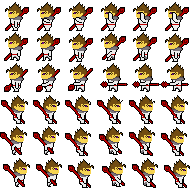
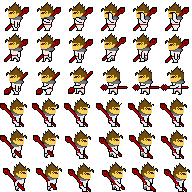
got them walking and attacking, but need to sync and need to have thme be damaged and loop

Changed region(s): [[0.0, 0.1562, 1.0, 1.0]]

diff --git a/main.js b/main.js
@@ -1,6 +1,10 @@
 var AM = new AssetManager();
 
-function Animation(spriteSheet, startX, startY, frameWidth, frameHeight, sheetWidth, frameDuration, frames, loop, scale) {
+function Animation(spriteSheet, startX, startY,
+                   frameWidth, frameHeight,
+                   sheetWidth,
+                   frameDuration, frames,
+                   loop, scale, doneXY = null) {
     this.spriteSheet = spriteSheet;
     this.startX = startX;
     this.startY = startY;
@@ -8,21 +12,39 @@ function Animation(spriteSheet, startX, startY, frameWidth, frameHeight, sheetWi
     this.frameDuration = frameDuration;
     this.frameHeight = frameHeight;
     this.sheetWidth = sheetWidth;
-    this.frames = frames;
     this.totalTime = frameDuration * frames;
     this.elapsedTime = 0;
     this.loop = loop;
+    if (!loop) {
+        this.doneXY = {x: doneXY.x, y: doneXY.y};
+    }
     this.scale = scale;
 }
 
 Animation.prototype.drawFrame = function (tick, ctx, x, y) {
     this.elapsedTime += tick;
-    if (this.isDone()) {
-        if (this.loop) this.elapsedTime = 0;
-    }
-    var frame = this.currentFrame();
+
     var xindex = 0;
     var yindex = 0;
+
+    if (this.isDone()) {
+        if (this.loop)  {
+            this.elapsedTime = 0;
+        } else {
+            xindex = this.doneXY.x;
+            yindex = this.doneXY.y;
+            ctx.drawImage(this.spriteSheet,
+                xindex * this.frameWidth, yindex * this.frameHeight,
+                this.frameWidth, this.frameHeight,
+                x, y,
+                this.frameWidth * this.scale,
+                this. frameHeight * this.scale);
+            return;
+        }
+    }
+
+    var frame = this.currentFrame();
+
     xindex = this.startX + (frame % this.sheetWidth);
     yindex = this.startY + Math.floor(frame / this.sheetWidth);
 
@@ -32,15 +54,15 @@ Animation.prototype.drawFrame = function (tick, ctx, x, y) {
                  x, y,
                  this.frameWidth * this.scale,
                  this.frameHeight * this.scale);
-}
+};
 
 Animation.prototype.currentFrame = function () {
     return Math.floor(this.elapsedTime / this.frameDuration);
-}
+};
 
 Animation.prototype.isDone = function () {
     return (this.elapsedTime >= this.totalTime);
-}
+};
 
 // no inheritance
 function Background(game, spritesheet) {
@@ -59,164 +81,46 @@ Background.prototype.draw = function () {
 Background.prototype.update = function () {
 };
 
-//Fighter LEFT
-function FighterLeft(game, sideToSide) {
+function Fighter(game, walk, attack, takeDmg, idle, direction, startPos) {
     this.speed = 100;
     this.game = game;
     this.ctx = game.ctx;
-    this.file = sideToSide;
-    this.animation = new Animation(sideToSide,
-        0,
-        5,
-        32,
-        32,
-        6,
-        0.10,
-        6,
-        true,
-        3);
-    Entity.call(this, game, 10, 350);
+
+    this.walk = walk;
+    this.attack = attack;
+    this.takeDmg = takeDmg;
+    this.idle = idle;
+    this.direction = direction;
+    this.startPos = startPos;
+    this.animation = this.walk;
+
+    Entity.call(this, game, startPos.x, startPos.y);
 }
-FighterLeft.prototype = new Entity();
-FighterLeft.prototype.constructor = FighterLeft;
-FighterLeft.prototype.update = function () {
-    this.x += this.game.clockTick * this.speed;
-    if (this.x > 300) {
-        this.x = 300;
-        this.speed = 0;
-        this.animation = new Animation(this.file,
-            0,
-            7, //or 7
-            32,
-            32,
-            6,
-            0.10,
-            6,
-            true,
-            3);
+Fighter.prototype = new Entity();
+Fighter.prototype.constructor = Fighter;
+Fighter.prototype.update = function () {
+    if (this.direction === "left") {
+        this.x += this.game.clockTick * this.speed;
+        if (this.x > 300) {
+            this.x = 300;
+            this.speed = 0;
+            this.animation = this.attack;
+        }
+    } else {
+        this.x -= this.game.clockTick * this.speed;
+        if (this.x < 400) {
+            this.x = 400;
+            this.speed = 0;
+            this.animation = this.attack;
+        }
     }
-    console.log(this.x + "," + this.y);
+
     Entity.prototype.update.call(this);
 };
-FighterLeft.prototype.draw = function () {
+Fighter.prototype.draw = function () {
     this.animation.drawFrame(this.game.clockTick, this.ctx, this.x, this.y);
     Entity.prototype.draw.call(this);
 };
-
-// //Fighter RIGHT
-// function FighterRight(game, sideToSide) {
-//     this.speed = 50;
-//     this.game = game;
-//     this.ctx = game.ctx;
-//     this.animation = new Animation(sideToSide,
-//         // 0,
-//         // 32,
-//         32,
-//         32,
-//         6,
-//         0.10,
-//         6,
-//         true,
-//         1);
-//     Entity.call(this, game, 800, 350);
-// }
-// FighterRight.prototype = new Entity();
-// FighterRight.prototype.constructor = FighterLeft;
-// FighterRight.prototype.update = function () {
-//     this.x -= this.game.clockTick * this.speed;
-//     if (this.x < 450) {
-//         this.x = 450;
-//         this.speed = 0;
-//     }
-//     Entity.prototype.update.call(this);
-// };
-// FighterRight.prototype.draw = function () {
-//     this.animation.drawFrame(this.game.clockTick, this.ctx, this.x, this.y);
-//     Entity.prototype.draw.call(this);
-// };
-
-// function BlackMage(game, sideToSide, dmgSheet) {
-//     this.IdleLeftAnimation = new Animation(sideToSide,
-//         0,
-//         0,
-//         32,
-//         32,
-//         6,
-//         0.10,
-//         6,
-//         true,
-//         1);
-//     this.WalkingLeftAnimation = new Animation(sideToSide,
-//         0,
-//         32,
-//         32,
-//         32,
-//         6,
-//         0.10,
-//         6,
-//         true,
-//         1);
-//     this.RegAttackLeftAnimation = new Animation(sideToSide,
-//         0,
-//         64,
-//         32,
-//         32,
-//         6,
-//         0.10,
-//         4,
-//         true,
-//         1);
-//     this.x = 0;
-//     this.y = 0;
-//     this.speed = 100;
-//     this.game = game;
-//     this.ctx = game.ctx;
-// }
-
-
-// inheritance 
-function Cheetah(game, spritesheet) {
-    this.animation = new Animation(spritesheet, 512, 256, 2, 0.05, 8, true, 0.5);
-    this.speed = 350;
-    this.ctx = game.ctx;
-    Entity.call(this, game, 0, 250);
-}
-
-Cheetah.prototype = new Entity();
-Cheetah.prototype.constructor = Cheetah;
-
-Cheetah.prototype.update = function () {
-    this.x += this.game.clockTick * this.speed;
-    if (this.x > 800) this.x = -230;
-    Entity.prototype.update.call(this);
-}
-
-Cheetah.prototype.draw = function () {
-    this.animation.drawFrame(this.game.clockTick, this.ctx, this.x, this.y);
-    Entity.prototype.draw.call(this);
-}
-
-// inheritance 
-function Guy(game, spritesheet) {
-    this.animation = new Animation(spritesheet, 154, 215, 4, 0.15, 8, true, 0.5);
-    this.speed = 100;
-    this.ctx = game.ctx;
-    Entity.call(this, game, 0, 450);
-}
-
-Guy.prototype = new Entity();
-Guy.prototype.constructor = Guy;
-
-Guy.prototype.update = function () {
-    this.x += this.game.clockTick * this.speed;
-    if (this.x > 800) this.x = -230;
-    Entity.prototype.update.call(this);
-}
-
-Guy.prototype.draw = function () {
-    this.animation.drawFrame(this.game.clockTick, this.ctx, this.x, this.y);
-    Entity.prototype.draw.call(this);
-}
 
 AM.queueDownload("./img/bg.jpg");
 AM.queueDownload("./img/BlackMageDmgSheet.png");
@@ -233,9 +137,110 @@ AM.downloadAll(function () {
     gameEngine.init(ctx);
     gameEngine.start();
 
+    var blackMage = AM.getAsset("./img/BlackMageSideToSideSheet.png");
+    var blackMageDmgFromRight = AM.getAsset("./img/BlackMageDmgSheet.png");
+    var blackMageDmgFromLeft = AM.getAsset("./img/BlackMageDmgSheet.png");
+    var lancer = AM.getAsset("./img/LancerSideToSideSheet.png");
+    var lancerDmgFromLeft = AM.getAsset("./img/LancerDmgSheet.png");
+    var lancerDmgFromRight = AM.getAsset("./img/LancerDmgSheet.png");
+    var lancerSpecialMove = AM.getAsset("./img/LancerSpecialMoveAllDirections.png");
+
+
+    //Create Animations
+    var BlackMageIdleLeftAnimation = new Animation(blackMage, 0, 0,
+        32, 32,
+        6, 0.1, 6, true, 3);
+    var BlackMageWalkingLeftAnimation = new Animation(blackMage, 0, 1,
+        32, 32,
+        6, 0.1, 6, true, 3);
+    var BlackMageRegAttackLeftAnimation = new Animation(blackMage, 0, 2,
+        32, 32,
+        6, 0.1, 4, false, 3,
+        {x: 0, y: 0});
+    var BlackMageSpecialMoveLeftAnimation = new Animation(blackMage, 0, 3,
+        32, 32,
+        6, 0.1, 6, false, 3,
+        {x: 0, y: 0});
+    var BlackMageDmgFromLeftAnimation = new Animation(blackMageDmgFromLeft, 0, 0,
+        32, 32,
+        6, 0.1, 6, true, 3);
+
+    var BlackMageIdleRightAnimation = new Animation(blackMage, 0, 4,
+        32, 32,
+        6, 0.1, 6, true, 3);
+    var BlackMageWalkingRightAnimation = new Animation(blackMage, 0, 5,
+        32, 32,
+        6, 0.1, 6, true, 3);
+    var BlackMageRegAttackRightAnimation = new Animation(blackMage, 0, 6,
+        32, 32,
+        6, 0.1, 4, false, 3,
+        {x: 0, y: 4});
+    var BlackMageSpecialMoveRightAnimation = new Animation(blackMage, 0, 7,
+        32, 32,
+        6, 0.1, 6, false, 3,
+        {x: 0, y: 4});
+    var BlackMageDmgFromRightAnimation = new Animation(blackMageDmgFromRight, 0, 0,
+        32, 32,
+        6, 0.1, 6, true, 3);
+
+    //Lancer
+    var LancerIdleLeftAnimation = new Animation(lancer, 0, 0,
+        32, 32,
+        6, 0.1, 6, false, 3,
+        {x: 0, y: 0});
+    var LancerWalkingLeftAnimation = new Animation(lancer, 0, 1,
+        32, 32,
+        6, 0.1, 6, true, 3);
+    var LancerRegAttackLeftAnimation = new Animation(lancer, 0, 2,
+        32, 32,
+        6, 0.1, 6, false, 3,
+        {x: 0, y: 0});
+    var LancerSpecialMoveLeftAnimation = new Animation(lancerSpecialMove, 0, 0,
+        32, 32,
+        6, 0.1, 6, false, 3,
+        {x: 0, y: 0});
+    var LancerDmgFromLeftAnimation = new Animation(lancerDmgFromLeft, 0, 0,
+        32, 32,
+        6, 0.1, 6, true, 3);
+
+    var LancerIdleRightAnimation = new Animation(lancer, 0, 3,
+        32, 32,
+        6, 0.1, 6, true, 3);
+    var LancerWalkingRightAnimation = new Animation(lancer, 0, 4,
+        32, 32,
+        6, 0.1, 6, true, 3);
+    var LancerRegAttackRightAnimation = new Animation(lancer, 0, 5,
+        32, 32,
+        6, 0.1, 6, false, 3,
+        {x: 0, y: 4});
+    var LancerSpecialMoveRightAnimation = new Animation(lancerSpecialMove, 0, 0,
+        32, 32,
+        6, 0.1, 6, false, 3,
+        {x: 0, y: 4});
+    var LancerDmgFromRightAnimation = new Animation(lancerDmgFromRight, 0, 0,
+        32, 32,
+        6, 0.1, 6, true, 3);
+
     gameEngine.addEntity(new Background(gameEngine, AM.getAsset("./img/bg.jpg")));
-    gameEngine.addEntity(new FighterLeft(gameEngine, AM.getAsset("./img/BlackMageSideToSideSheet.png")));
-    //gameEngine.addEntity(new FighterRight(gameEngine, AM.getAsset("./img/BlackMageSideToSideSheet.png")));
+
+
+    gameEngine.addEntity(
+        new Fighter(gameEngine,
+        BlackMageWalkingRightAnimation,
+        BlackMageRegAttackRightAnimation,
+        BlackMageDmgFromRightAnimation,
+        BlackMageIdleRightAnimation,
+        "left", {x: 0, y: 250})
+    );
+
+    gameEngine.addEntity(
+        new Fighter(gameEngine,
+            LancerWalkingLeftAnimation,
+            LancerRegAttackLeftAnimation,
+            LancerDmgFromLeftAnimation,
+            LancerIdleLeftAnimation,
+            "right", {x: 800, y: 250})
+    );
 
     console.log("All Done!");
 });
